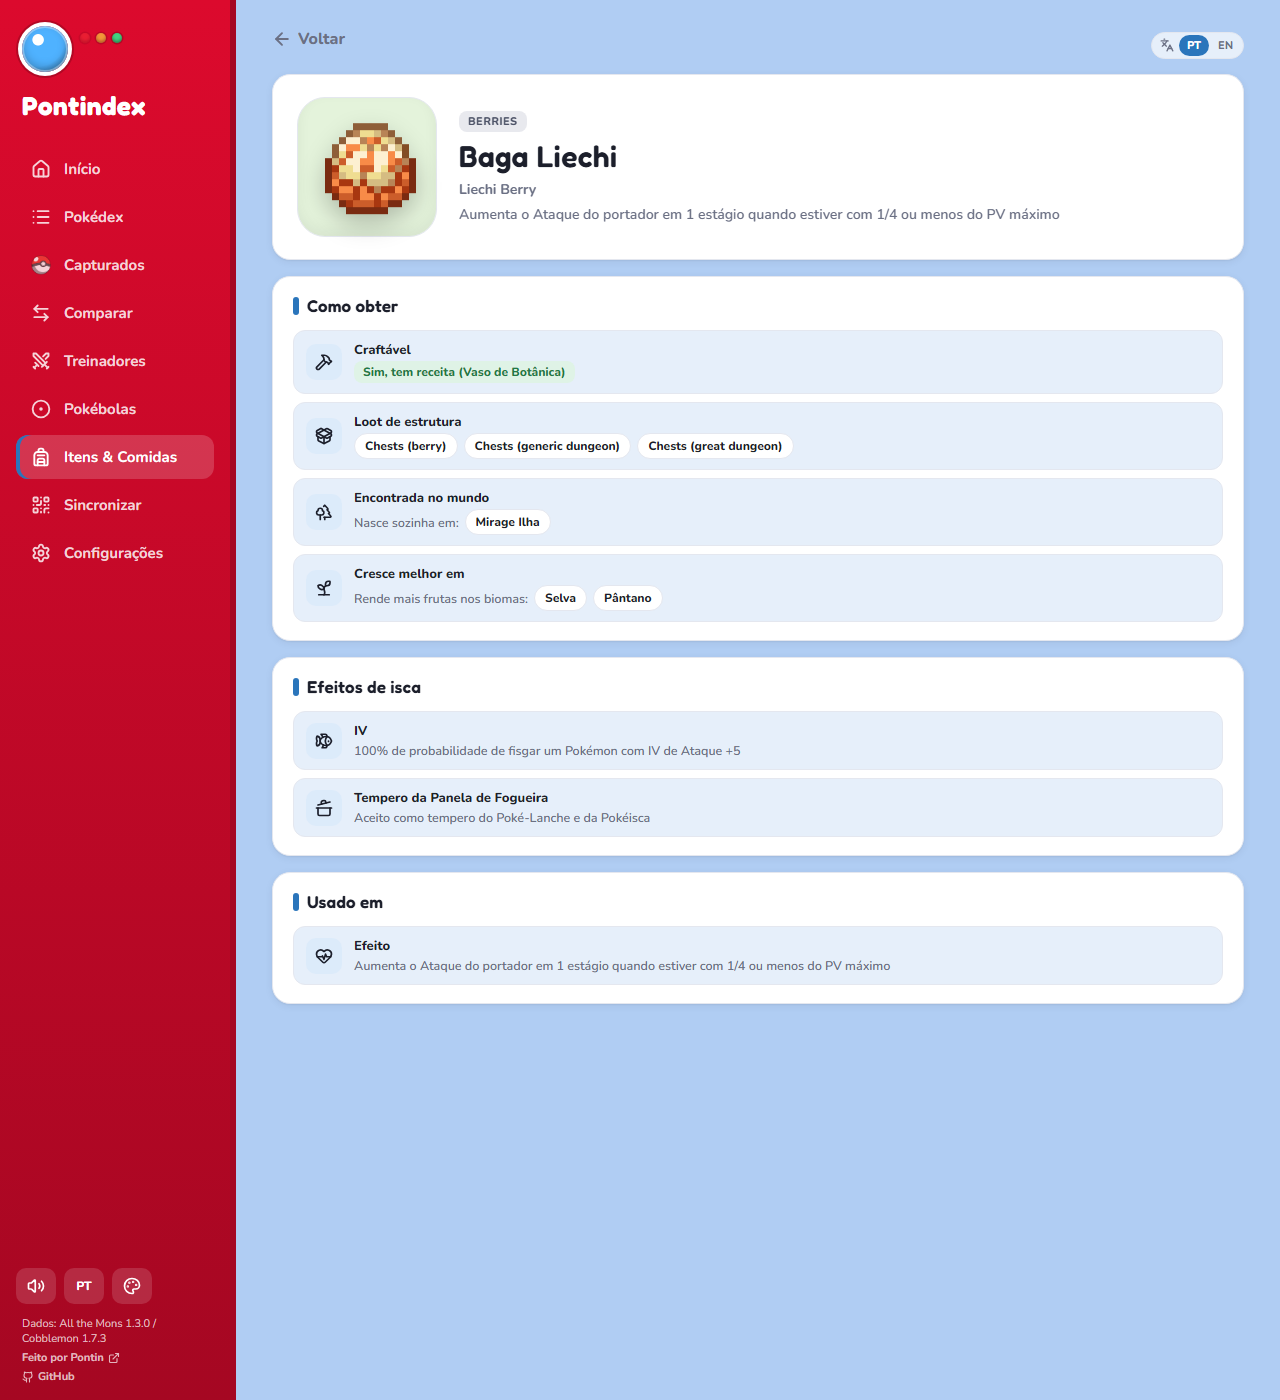
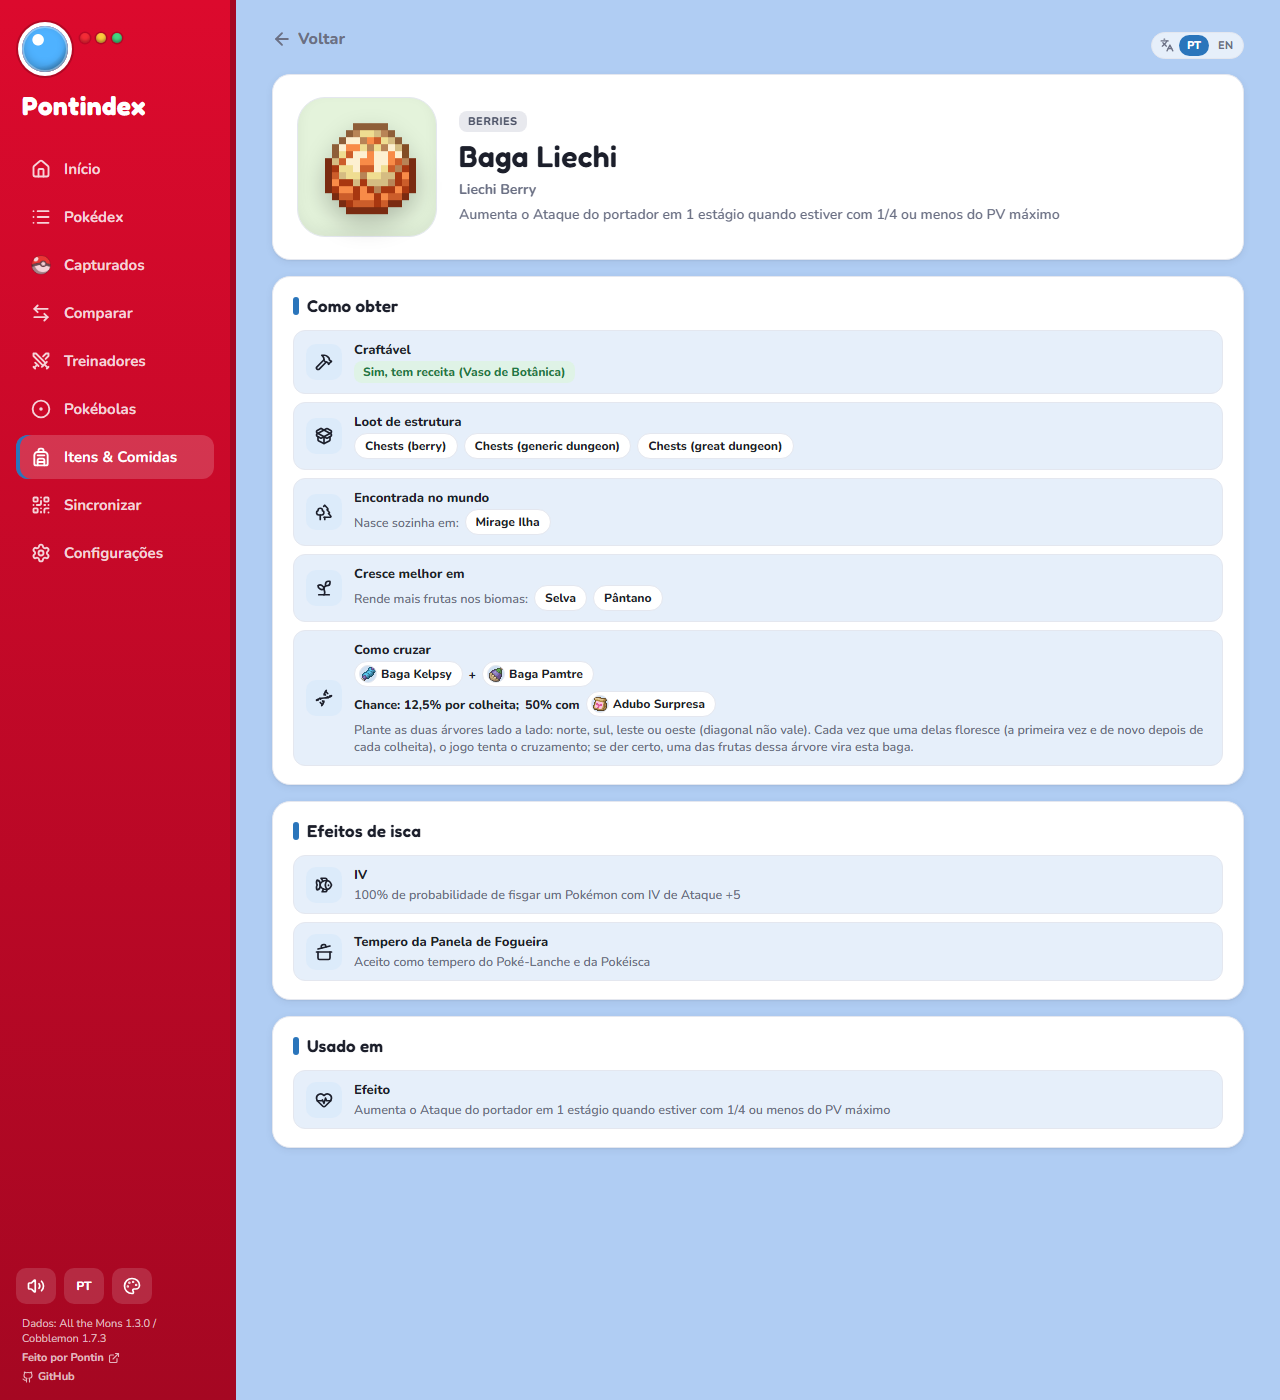
feat(item): linha Como cruzar com pares clicaveis, chance e mecanica

Changed region(s): [[0.1875, 0.43, 0.9688, 0.8293]]

diff --git a/src/screens/Item/BerryParts.tsx b/src/screens/Item/BerryParts.tsx
@@ -1,14 +1,31 @@
 // Partes de baga da pagina do item (berry-mutations F1.3..F1.5): "Encontrada no mundo" e "Cresce melhor em" no lugar do
 // "Plantavel" das bagas, dentro de .item-obtain (depois das rotas existentes).
-import { Sprout, Trees } from "lucide-react";
+import { Dna, Sprout, Trees } from "lucide-react";
 import type { BiomeLabels, ItemInfo } from "../../data/types";
 import { useT } from "../../i18n/useT";
 import type { UiLanguage } from "../../storage/types";
+import { ItemLink } from "../Detail/ItemLink";
 import { biomeLabel } from "../Trainers/trainer-model";
 import { LabelChips, Row } from "./ItemScreen";
-import { berryWorldBiomes, type BerryObtainExtra } from "./item-page-model";
+import { SURPRISE_MULCH_ID, berryWorldBiomes, groupMutationPairs, type BerryObtainExtra } from "./item-page-model";
 
-export function BerryObtainRow({ kind, item, index, biomes, uiLang }: { kind: BerryObtainExtra; item: ItemInfo; index: number; biomes: BiomeLabels | null; uiLang: UiLanguage }) {
+export function BerryObtainRow({
+  kind,
+  item,
+  index,
+  biomes,
+  uiLang,
+  items,
+  lang,
+}: {
+  kind: BerryObtainExtra;
+  item: ItemInfo;
+  index: number;
+  biomes: BiomeLabels | null;
+  uiLang: UiLanguage;
+  items: Record<string, ItemInfo>;
+  lang: UiLanguage;
+}) {
   const t = useT();
   switch (kind) {
     case "berryWorld": {
@@ -40,6 +57,27 @@ export function BerryObtainRow({ kind, item, index, biomes, uiLang }: { kind: Be
       return (
         <Row icon={<Sprout />} title={t("ip.plant")} index={index} kind="plantable">
           <span>{t("ip.plantAny")}</span>
+        </Row>
+      );
+    case "mutation":
+      return (
+        <Row icon={<Dna />} title={t("ip.mut.title")} index={index} kind="mutation">
+          {groupMutationPairs(item.berry!.mutationPairs).map((g) => (
+            <span key={g.fixed} className="mut-pair" data-mut-fixed={g.fixed}>
+              <ItemLink id={g.fixed} items={items} lang={lang} className="mut-berry it-link" />
+              <span className="mut-op">{t("ip.mut.plus")}</span>
+              {g.partners.length > 1 ? <span className="mut-hint">{t("ip.mut.oneOf")}</span> : null}
+              {g.partners.map((p) => (
+                <ItemLink key={p} id={p} items={items} lang={lang} className="mut-berry it-link" />
+              ))}
+            </span>
+          ))}
+          <span className="mut-chance" data-mut-chance="">
+            <b>{t("ip.mut.chance")}</b>{" "}
+            <b>{t("ip.mut.chanceMulch")}</b>{" "}
+            <ItemLink id={SURPRISE_MULCH_ID} items={items} lang={lang} className="mut-berry it-link" />
+          </span>
+          <span className="mut-how">{t("ip.mut.how")}</span>
         </Row>
       );
     default:

diff --git a/src/screens/Item/item.css b/src/screens/Item/item.css
@@ -72,3 +72,11 @@ html[data-theme="green"] .item-screen .pot-ing b, html[data-theme="blue"] .item-
 .item-screen .pot-item { display: inline-flex; align-items: center; gap: 4px; font: inherit; color: var(--text); text-align: left; min-width: 0; }
 .item-screen .pot-item:hover span { text-decoration: underline; }
 .item-screen .pot-seasoning, .item-screen .pot-label { font-size: 12.5px; font-weight: 600; color: var(--muted); overflow-wrap: anywhere; }
+/* Como cruzar / Usada em cruzamento (berry-mutations F1.4/F1.5): pilulas no padrao de .pot-ing, sem colapso */
+.item-screen .mut-pair, .item-screen .mut-use, .item-screen .mut-chance { display: flex; flex-wrap: wrap; align-items: center; gap: 6px; width: 100%; min-width: 0; }
+.item-screen .mut-op { font-weight: 800; color: var(--text); }
+.item-screen .mut-hint { color: var(--muted); }
+.item-screen .mut-berry { display: inline-flex; align-items: center; gap: 4px; padding: 3px 10px 3px 4px; border-radius: 999px; background: var(--surface); border: 1.5px solid var(--border); font: inherit; font-size: 12px; font-weight: 800; color: var(--text); text-align: left; min-width: 0; max-width: 100%; overflow-wrap: anywhere; transition: border-color .2s; }
+.item-screen button.mut-berry:hover { border-color: var(--secondary); }
+.item-screen button.mut-berry:focus-visible { outline: 2px solid var(--secondary); outline-offset: 2px; }
+.item-screen .mut-how { width: 100%; overflow-wrap: anywhere; }

diff --git a/src/screens/Item/ItemScreen.tsx b/src/screens/Item/ItemScreen.tsx
@@ -433,7 +433,7 @@ function ItemBody({ itemId, items, balls, biomes, series }: { itemId: string; it
             <ObtainRow key={`${r.kind}-${i}`} route={r} index={i} lang={lang} uiLang={uiLang} species={species} biomes={biomes} series={series} items={items} />
           ))}
           {extras.map((k, j) => (
-            <BerryObtainRow key={k} kind={k} item={item!} index={routes.length + j} biomes={biomes} uiLang={uiLang} />
+            <BerryObtainRow key={k} kind={k} item={item!} index={routes.length + j} biomes={biomes} uiLang={uiLang} items={items} lang={lang} />
           ))}
         </div>
       </section>

diff --git a/.forge/in-progress/berry-mutations/CHECKLIST_berry-mutations.md b/.forge/in-progress/berry-mutations/CHECKLIST_berry-mutations.md
@@ -67,11 +67,11 @@ O Frontend so comeca depois de B2.2 verde.
   - commit: b0623b17
   - status: feito
 
-- [ ] **F1.3** "Encontrada no mundo" e "Cresce melhor em" no lugar do "Plantavel" das bagas
+- [x] **F1.3** "Encontrada no mundo" e "Cresce melhor em" no lugar do "Plantavel" das bagas
   - categoria: frontend
   - Done when: capturas `after-item-occa-{pt,en,pt-390}.png`, `after-item-oran-pt.png`, `after-item-liechi-pt.png`, `after-item-sitrus-pt.png`, `after-item-red_apricorn-pt.png` em `ui-refs/`; no spec temporario: Occa `.item-obtain .ob-row` = 5 com `data-row` na ordem `craftable, drop, structureLoot, berryWorld, berryGrowth`; Occa `[data-row='berryWorld']` contem "Nasce sozinha em:"; Oran `[data-row='berryWorld']` contem "qualquer bioma" e 0 `.biome`; Liechi `[data-row='berryWorld']` contem "Mirage Ilha"; Sitrus 0 `[data-row='berryWorld']` e 1 `[data-row='berryGrowth']`; Red Apricorn com `[data-row='plantable']` e texto "Pode ser plantado" iguais aos de hoje e 0 linhas novas; `expectNoOverlap(".item-screen")` a 360/390/1280; `npx vitest run tests/unit/ui-screens` verde; `PW_DEV=1 PW_PORT=4178 npx playwright test tests/e2e/item.spec.ts` verde (com o 5 da linha 259).
-  - commit: 
-  - status: pendente
+  - commit: 75d7ade4
+  - status: feito
 
 - [ ] **F1.4** Linha "Como cruzar" (pares clicaveis, chance e mecanica)
   - categoria: frontend
